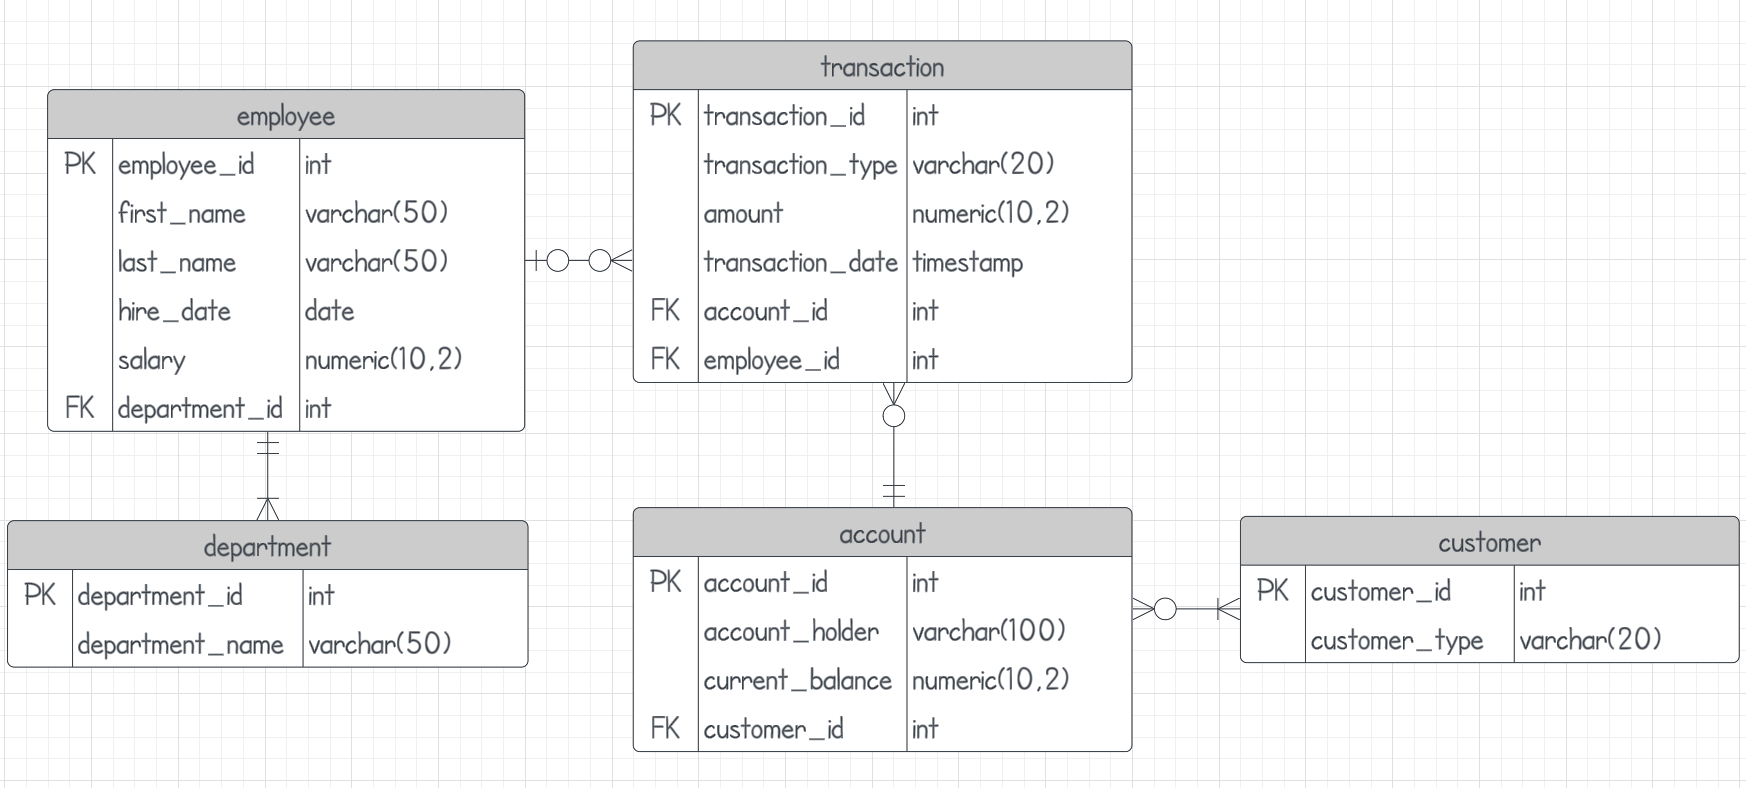
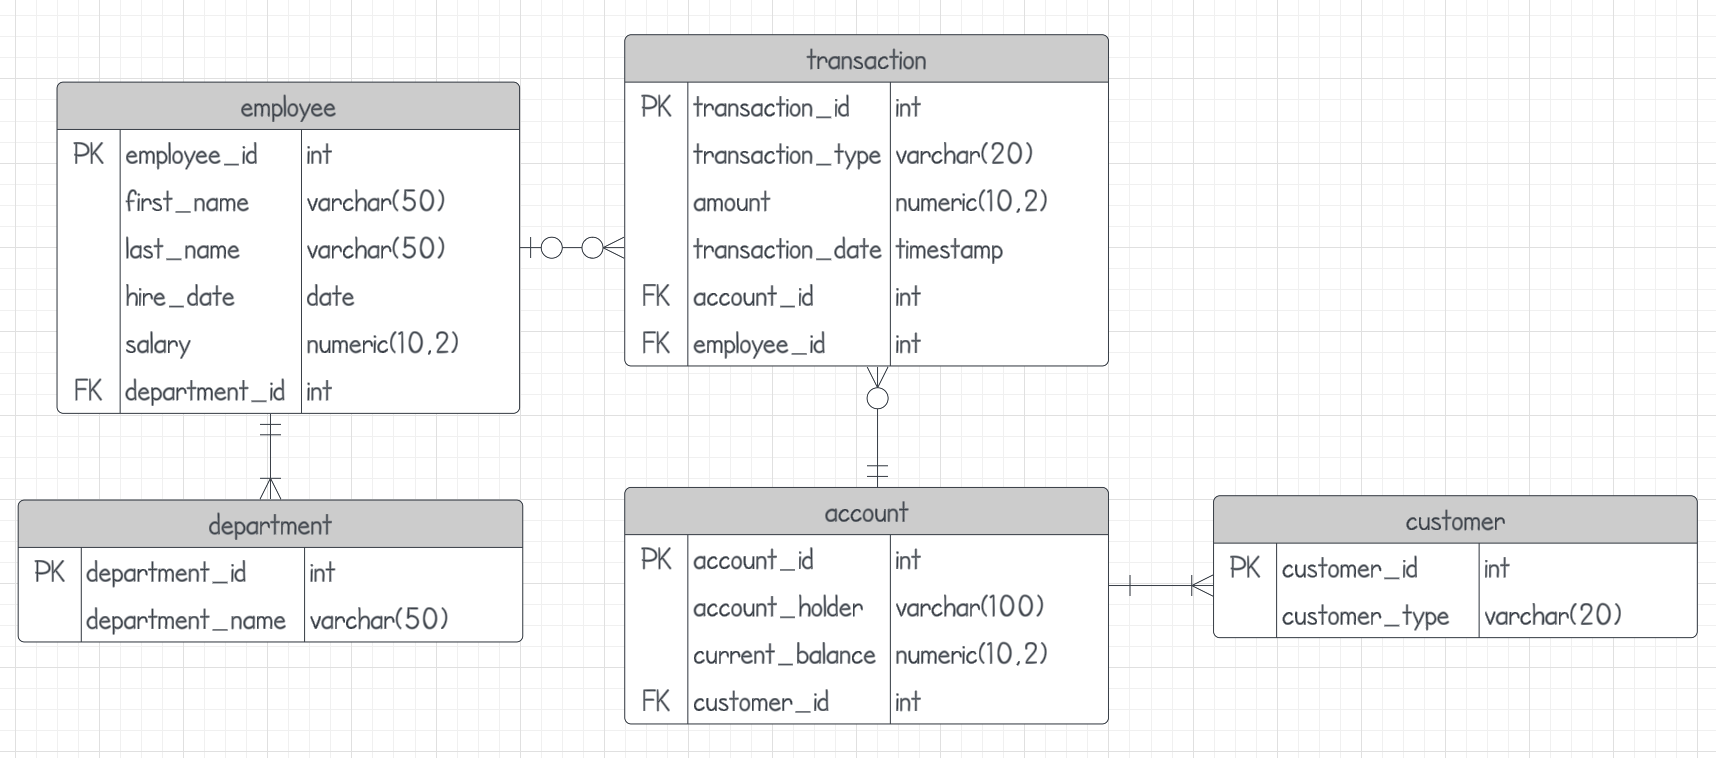
Update transaction handling in main.py

diff --git a/main.py b/main.py
@@ -77,7 +77,7 @@ def create_schemas_and_tables(conn):
                         amount NUMERIC(10,2) NOT NULL,
                         transaction_date timestamp NOT NULL,
                         account_id INT NOT NULL,
-                        employee_id INT NOT NULL,
+                        employee_id INT,
                         CONSTRAINT transaction_pkey PRIMARY KEY (transaction_id),
                         CONSTRAINT account_fkey FOREIGN KEY (account_id)
                             REFERENCES finance.account (account_id) MATCH SIMPLE
